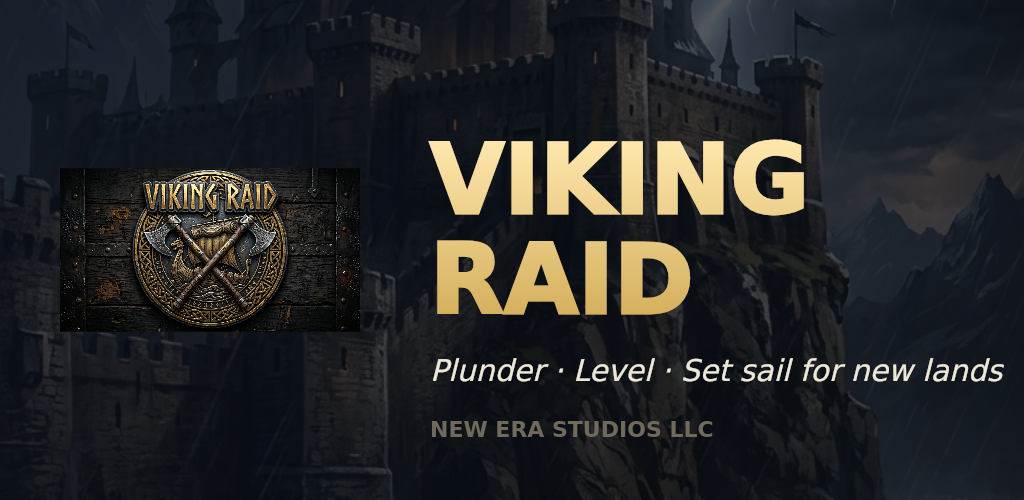
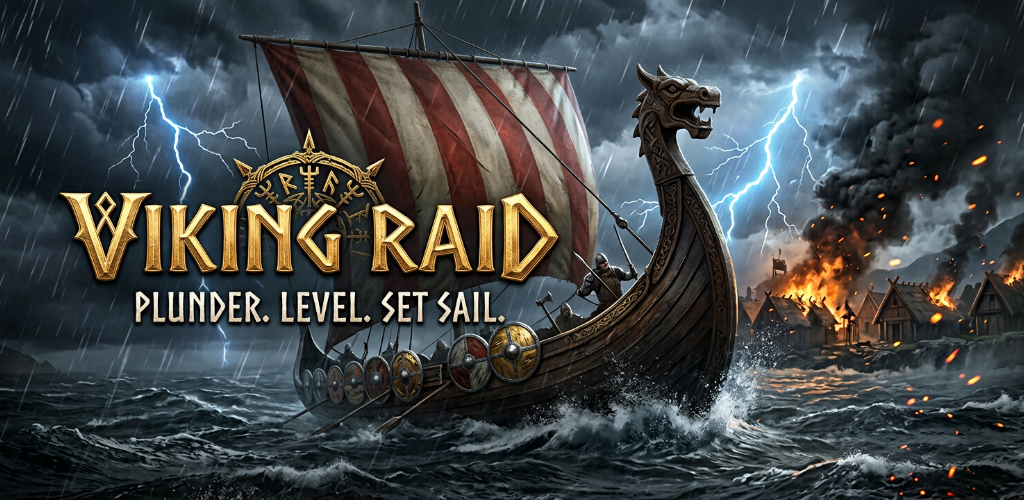
feat(assets): full art pass — unique region scenes, boss lair backdrop, complete store/packaging assets
- New scene art: frozen shore, fjords, marches, cliffs (every region now unique) + dedicated boss-lair backdrop shown during boss fights
- Store assets: 1024x500 feature graphic key art, adaptive icon foreground/background layers (safe-zone checked), 2732x2732 splash + dark splash, icon-512/192 for PWA manifest
- scripts/process-assets.js normalizes raw art to exact store dimensions
- render.js: art keyed by scene name, boss lair override; sw.js cache v2 with new scenes; build-web.js excludes packaging-only art from shipped bundle
- Screenshots + contact sheet regenerated with new art; docs updated

diff --git a/scripts/screenshot.js b/scripts/screenshot.js
@@ -24,13 +24,13 @@ async function loadIm(name, file) { IMG[name] = await loadImage(path.resolve(__d
 function fmt(n) { n = Math.floor(n); if (n < 1000) return "" + n; const u = ["K","M","B","T","aa","ab"]; let i=-1; while(n>=1000&&i<u.length-1){n/=1000;i++;} return n.toFixed(n<10?1:0)+u[i]; }
 function hpColor(f) { return f > 0.5 ? "#5fd17a" : f > 0.25 ? "#e0c14a" : "#e0533d"; }
 function roundRect(c, x, y, w, h, r) { r = Math.min(r, w/2, h/2); c.beginPath(); c.moveTo(x+r,y); c.arcTo(x+w,y,x+w,y+h,r); c.arcTo(x+w,y+h,x,y+h,r); c.arcTo(x,y+h,x,y,r); c.arcTo(x,y,x+w,y,r); c.closePath(); }
-function sceneImg(region) { const a = DATA.regionArt(region).art; return a === "scene_forest" ? IMG.forest : a === "scene_fortress" ? IMG.fortress : IMG.village; }
+function sceneImg(region, isBoss) { if (isBoss && IMG.scene_bosslair) return IMG.scene_bosslair; const a = DATA.regionArt(region).art; return IMG[a] || IMG.scene_village; }
 
-function drawBackground(c, region) {
+function drawBackground(c, region, isBoss) {
   const tint = DATA.regionArt(region).tint || "#10131f";
   const g = c.createLinearGradient(0, 0, 0, H); g.addColorStop(0, tint); g.addColorStop(1, "#05070c");
   c.fillStyle = g; c.fillRect(0, 0, W, H);
-  const im = sceneImg(region);
+  const im = sceneImg(region, isBoss);
   if (im) { const sc = Math.max(W / im.width, H / im.height), dw = im.width * sc, dh = im.height * sc; c.globalAlpha = 0.94; c.drawImage(im, (W - dw) / 2, (H - dh) / 2, dw, dh); c.globalAlpha = 1; }
   const top = c.createLinearGradient(0, 0, 0, H * 0.30); top.addColorStop(0, "rgba(5,7,12,0.78)"); top.addColorStop(1, "rgba(5,7,12,0)"); c.fillStyle = top; c.fillRect(0, 0, W, H * 0.30);
   const bot = c.createLinearGradient(0, H * 0.52, 0, H); bot.addColorStop(0, "rgba(5,7,12,0)"); bot.addColorStop(1, "rgba(5,7,12,0.93)"); c.fillStyle = bot; c.fillRect(0, H * 0.52, W, H * 0.48);
@@ -185,9 +185,14 @@ async function shot(name, drawFn) {
 }
 
 async function main() {
-  await loadIm("village", "scene_village.png");
-  await loadIm("forest", "scene_forest.png");
-  await loadIm("fortress", "scene_fortress.png");
+  await loadIm("scene_village", "scene_village.png");
+  await loadIm("scene_forest", "scene_forest.png");
+  await loadIm("scene_fortress", "scene_fortress.png");
+  await loadIm("scene_frozen_shore", "scene_frozen_shore.png");
+  await loadIm("scene_fjords", "scene_fjords.png");
+  await loadIm("scene_marches", "scene_marches.png");
+  await loadIm("scene_cliffs", "scene_cliffs.png");
+  await loadIm("scene_bosslair", "scene_bosslair.png");
   await loadIm("hero", "hero_chieftain.png");
   await loadIm("logo", "logo.png");
   const time = 1.2;
@@ -220,7 +225,7 @@ async function main() {
     const st = makeState({ region: 0, villageIndex: CONFIG.BOSS_INDEX, rage: 0.6 });
     Sys.init(st); const v = G.village; v.hp = v.maxHp * 0.30; v.hitFlash = 0.7; v.staggered = true; v.fury = true;
     G.runtime.bossBanner = 1.35;
-    buildWeather(st.region); drawBackground(c, st.region); drawWeather(c, st.region);
+    buildWeather(st.region); drawBackground(c, st.region, true); drawWeather(c, st.region);
     drawTarget(c, v, time); drawBossBanner(c, v, G.runtime.bossBanner); drawShip(c, st.shipHp*0.6, G.derived.shipMaxHp);
     drawFloaters(c, [ {x:W*0.5,y:H*0.34,t:"18,420!",c:"#ffd54a",a:1,big:true},{x:W*0.4,y:H*0.30,t:"7,310",c:"#fff",a:0.85} ]);
     drawChrome(c, st, v);

diff --git a/scripts/process-assets.js b/scripts/process-assets.js
@@ -1,0 +1,67 @@
+/* scripts/process-assets.js
+   Normalizes raw art into store/packaging-ready assets:
+   - assets/icon-1024.png            (1024x1024 app icon, already square — validated)
+   - assets/icon-512.png / icon-192.png  (PWA manifest icons)
+   - assets/icon-foreground.png      (1024x1024, emblem scaled into adaptive-icon safe zone)
+   - assets/icon-background.png      (1024x1024 edge-to-edge layer)
+   - assets/splash-2732.png          (2732x2732 for @capacitor/assets)
+   - screenshots/feature_graphic.png (1024x500 Play Store feature graphic, cover-cropped)
+   Run: node scripts/process-assets.js   (needs: npm i @napi-rs/canvas) */
+const fs = require("fs");
+const path = require("path");
+const { createCanvas, loadImage } = require("@napi-rs/canvas");
+
+const A = (f) => path.resolve(__dirname, "..", "assets", f);
+const S = (f) => path.resolve(__dirname, "..", "screenshots", f);
+
+function save(canvas, file) {
+  fs.writeFileSync(file, canvas.toBuffer("image/png"));
+  console.log("wrote", path.relative(path.resolve(__dirname, ".."), file), canvas.width + "x" + canvas.height);
+}
+
+// cover-crop an image onto a w×h canvas
+function cover(im, w, h) {
+  const cv = createCanvas(w, h), c = cv.getContext("2d");
+  const sc = Math.max(w / im.width, h / im.height);
+  const dw = im.width * sc, dh = im.height * sc;
+  c.drawImage(im, (w - dw) / 2, (h - dh) / 2, dw, dh);
+  return cv;
+}
+
+// contain image at `frac` of canvas onto a solid background
+function contain(im, w, h, frac, bg) {
+  const cv = createCanvas(w, h), c = cv.getContext("2d");
+  c.fillStyle = bg; c.fillRect(0, 0, w, h);
+  const sc = Math.min(w / im.width, h / im.height) * frac;
+  const dw = im.width * sc, dh = im.height * sc;
+  c.drawImage(im, (w - dw) / 2, (h - dh) / 2, dw, dh);
+  return cv;
+}
+
+async function main() {
+  // 1) Feature graphic: 1024x500 exact
+  const fg = await loadImage(A("feature_graphic_art.png"));
+  save(cover(fg, 1024, 500), S("feature_graphic.png"));
+
+  // 2) Adaptive icon foreground: emblem must sit inside the 66% safe zone.
+  //    Raw art's emblem spans ~82% of the frame → rescale whole layer to 72%
+  //    so the emblem lands at ~59% of the canvas (inside safe zone).
+  const fore = await loadImage(A("icon-foreground.png"));
+  save(contain(fore, 1024, 1024, 0.72, "#0a0e18"), A("icon-foreground.png"));
+
+  // 3) Adaptive icon background: exact 1024 square
+  const back = await loadImage(A("icon-background.png"));
+  save(cover(back, 1024, 1024), A("icon-background.png"));
+
+  // 4) Splash: 2732x2732 (Capacitor universal splash source)
+  const splash = await loadImage(A("splash-2732.png"));
+  save(cover(splash, 2732, 2732), A("splash-2732.png"));
+
+  // 5) PWA manifest icons from the master 1024 icon
+  const icon = await loadImage(A("icon-1024.png"));
+  save(cover(icon, 512, 512), A("icon-512.png"));
+  save(cover(icon, 192, 192), A("icon-192.png"));
+
+  console.log("\nAll assets normalized.");
+}
+main().catch((e) => { console.error(e); process.exit(1); });

diff --git a/js/render.js b/js/render.js
@@ -36,9 +36,14 @@
   Render.init = function (canvas) {
     cv = canvas;
     ctx = canvas.getContext("2d");
-    loadImage("village", "assets/scene_village.png");
-    loadImage("forest", "assets/scene_forest.png");
-    loadImage("fortress", "assets/scene_fortress.png");
+    loadImage("scene_village", "assets/scene_village.png");
+    loadImage("scene_forest", "assets/scene_forest.png");
+    loadImage("scene_fortress", "assets/scene_fortress.png");
+    loadImage("scene_frozen_shore", "assets/scene_frozen_shore.png");
+    loadImage("scene_fjords", "assets/scene_fjords.png");
+    loadImage("scene_marches", "assets/scene_marches.png");
+    loadImage("scene_cliffs", "assets/scene_cliffs.png");
+    loadImage("scene_bosslair", "assets/scene_bosslair.png");
     loadImage("hero", "assets/hero_chieftain.png");
     loadImage("logo", "assets/logo.png");
     for (let i = 0; i < 26; i++) {
@@ -211,13 +216,12 @@
 
   function regionArtName(region) {
     const art = DATA.regionArt(region).art;
-    return art; // scene_village/forest/fortress
+    return images[art] ? art : "scene_village";
   }
-  function artImage(region) {
-    const a = regionArtName(region);
-    if (a === "scene_forest") return images.forest;
-    if (a === "scene_fortress") return images.fortress;
-    return images.village;
+  function artKey() {
+    const v = G.village;
+    if (v && v.isBoss && images["scene_bosslair"]) return "scene_bosslair";
+    return regionArtName(v ? v.region : 0);
   }
 
   function drawBackground() {
@@ -230,8 +234,9 @@
     ctx.fillStyle = g;
     ctx.fillRect(0, 0, W, H);
 
-    const im = artImage(v.region);
-    if (im && imgReady[im === images.village ? "village" : im === images.forest ? "forest" : "fortress"]) {
+    const key = artKey();
+    const im = images[key];
+    if (im && imgReady[key]) {
       // cover-fit with subtle bob
       const bob = Math.sin(time * 0.6) * 4;
       const iw = im.naturalWidth, ih = im.naturalHeight;

diff --git a/js/data.js b/js/data.js
@@ -162,12 +162,12 @@
 
     // --- Regions (first several hand-authored, then procedural) ------
     REGIONS: [
-      { name: "The Frozen Shore",   art: "scene_village",  tint: "#1b2a3a", weather: "snow" },
-      { name: "Whispering Fjords",  art: "scene_village",  tint: "#243440", weather: "mist" },
-      { name: "Ironwood Forest",    art: "scene_forest",   tint: "#16241a", weather: "embers" },
-      { name: "Blackpine Marches",  art: "scene_forest",   tint: "#1a2230", weather: "rain" },
-      { name: "Stormhold Keep",     art: "scene_fortress", tint: "#10131f", weather: "storm" },
-      { name: "Thunder Cliffs",     art: "scene_fortress", tint: "#0e1322", weather: "storm" },
+      { name: "The Frozen Shore",   art: "scene_frozen_shore", tint: "#1b2a3a", weather: "snow" },
+      { name: "Whispering Fjords",  art: "scene_fjords",       tint: "#243440", weather: "mist" },
+      { name: "Ironwood Forest",    art: "scene_forest",       tint: "#16241a", weather: "embers" },
+      { name: "Blackpine Marches",  art: "scene_marches",      tint: "#1a2230", weather: "rain" },
+      { name: "Stormhold Keep",     art: "scene_fortress",     tint: "#10131f", weather: "storm" },
+      { name: "Thunder Cliffs",     art: "scene_cliffs",       tint: "#0e1322", weather: "storm" },
     ],
 
     // --- Weather profiles (rendered as canvas particles) -------------
@@ -344,7 +344,7 @@
       if (index < DATA.REGIONS.length) return DATA.REGIONS[index];
       // cycle art, darkening tints for deeper regions
       const base = DATA.REGIONS[index % DATA.REGIONS.length];
-      return { name: DATA.regionName(index), art: base.art, tint: base.tint };
+      return { name: DATA.regionName(index), art: base.art, tint: base.tint, weather: base.weather };
     },
 
     // Compose a flavourful item name from its slot + rarity.

diff --git a/scripts/build-web.js b/scripts/build-web.js
@@ -16,11 +16,26 @@ const INCLUDE = [
   "js",
 ];
 
+// Packaging-only art (icon/splash sources for @capacitor/assets, store art).
+// Not referenced at runtime — keep them out of the shipped web bundle.
+const EXCLUDE = new Set([
+  "assets/splash.png",
+  "assets/splash-dark.png",
+  "assets/splash-2732.png",
+  "assets/icon-only.png",
+  "assets/icon-foreground.png",
+  "assets/icon-background.png",
+  "assets/icon-1024.png",
+  "assets/feature_graphic_art.png",
+]);
+
 function rmrf(p) {
   if (!fs.existsSync(p)) return;
   fs.rmSync(p, { recursive: true, force: true });
 }
 function copy(src, dest) {
+  const rel = path.relative(ROOT, src).split(path.sep).join("/");
+  if (EXCLUDE.has(rel)) return;
   const stat = fs.statSync(src);
   if (stat.isDirectory()) {
     fs.mkdirSync(dest, { recursive: true });

diff --git a/index.html b/index.html
@@ -14,8 +14,8 @@
   <meta name="description" content="Viking Raid — an epic incremental raiding RPG. Plunder villages, level your warband, and sail for new lands. By New Era Studios LLC." />
   <title>Viking Raid</title>
   <link rel="manifest" href="manifest.webmanifest" />
-  <link rel="icon" type="image/png" href="assets/logo.png" />
-  <link rel="apple-touch-icon" href="assets/logo.png" />
+  <link rel="icon" type="image/png" href="assets/icon-192.png" />
+  <link rel="apple-touch-icon" href="assets/icon-192.png" />
   <link rel="preconnect" href="https://fonts.googleapis.com" />
   <link rel="preconnect" href="https://fonts.gstatic.com" crossorigin />
   <link href="https://fonts.googleapis.com/css2?family=Cinzel:wght@500;700;900&family=Cinzel+Decorative:wght@700;900&display=swap" rel="stylesheet" />

diff --git a/sw.js b/sw.js
@@ -2,7 +2,7 @@
    VIKING RAID — service worker (offline app shell)
    New Era Studios LLC
    ============================================================ */
-const CACHE = "viking-raid-v1";
+const CACHE = "viking-raid-v2";
 const SHELL = [
   "./",
   "./index.html",
@@ -21,6 +21,13 @@ const SHELL = [
   "./assets/scene_village.png",
   "./assets/scene_forest.png",
   "./assets/scene_fortress.png",
+  "./assets/scene_frozen_shore.png",
+  "./assets/scene_fjords.png",
+  "./assets/scene_marches.png",
+  "./assets/scene_cliffs.png",
+  "./assets/scene_bosslair.png",
+  "./assets/icon-192.png",
+  "./assets/icon-512.png",
 ];
 
 self.addEventListener("install", (e) => {

diff --git a/LAUNCH_CHECKLIST.md b/LAUNCH_CHECKLIST.md
@@ -17,6 +17,10 @@ Legend: ✅ already done in this repo · 🔲 your action · 💰 may cost money
 | `capacitor.config.json` (appId `com.newerastudios.vikingraid`) | ✅ |
 | `scripts/build-web.js` (builds `./www` for Capacitor) | ✅ |
 | App icon source `assets/icon-1024.png` (1024×1024 square) | ✅ |
+| Adaptive icon layers `assets/icon-foreground.png` / `icon-background.png` (1024², safe-zone checked) | ✅ |
+| Splash sources `assets/splash.png` / `splash-dark.png` (2732×2732) | ✅ |
+| Feature graphic `screenshots/feature_graphic.png` (exact 1024×500 key art) | ✅ |
+| Unique scene art for all 6 regions + boss lair backdrop | ✅ |
 | Tests (`npm test` → 73 checks, 0 errors) | ✅ |
 
 ---
@@ -50,7 +54,7 @@ Run these in the project root:
 ```bash
 npm install                      # Capacitor + tooling
 npm run build:web                # copies the game into ./www
-npx capacitor-assets generate    # makes Android icons + splash from assets/icon-1024.png (run: npm i -D @capacitor/assets first)
+npx capacitor-assets generate --android   # icons + splash — sources already in assets/: icon-only, icon-foreground, icon-background, splash, splash-dark (run: npm i -D @capacitor/assets first)
 npx cap add android              # creates ./android  (first time only)
 npx cap sync android             # copies ./www + plugins into the native project
 npx cap open android             # opens the project in Android Studio
@@ -68,9 +72,9 @@ npx cap open android             # opens the project in Android Studio
 
 | # | Asset | Spec | Where to put it | How to make it |
 |---|---|---|---|---|
-| 4.1 | 🔲 App icon | 512×512 PNG, 32-bit, no alpha | Play Console → app → Main store listing | Use `assets/icon-1024.png` resized, or regenerate. |
-| 4.2 | 🔲 **Screenshots** (min 2, rec 3–8) | Phone: 16:9 or 9:16, min 320px, max 3840px JPEG/PNG | Play Console → Main store listing | **Starter set included:** `screenshots/01_splash.png … 05_fortress.png` (true 1080×2340 renders) + `screenshots/feature_graphic.png` (1024×500). Regenerate any time with `npm i @napi-rs/canvas && node scripts/screenshot.js`. For live captures, run on a real device and use `adb exec-out screencap -p > shot.png`. |
-| 4.3 | 🔲 Feature graphic (optional but recommended) | 1024×500 PNG/JPEG | Play Console → Main store listing | A wide banner (longship + "Viking Raid" + "New Era Studios"). |
+| 4.1 | 🔲 App icon | 512×512 PNG, 32-bit, no alpha | Play Console → app → Main store listing | **Ready:** upload `assets/icon-512.png` (flatten alpha if Console complains). |
+| 4.2 | 🔲 **Screenshots** (min 2, rec 3–8) | Phone: 16:9 or 9:16, min 320px, max 3840px JPEG/PNG | Play Console → Main store listing | **Starter set included:** `screenshots/01_splash.png … 06_modifier.png` (true 1080×2340 renders, unique art per region + boss lair). Regenerate any time with `npm i @napi-rs/canvas && node scripts/screenshot.js`. For live captures, run on a real device and use `adb exec-out screencap -p > shot.png`. |
+| 4.3 | 🔲 Feature graphic (optional but recommended) | 1024×500 PNG/JPEG | Play Console → Main store listing | **Ready:** upload `screenshots/feature_graphic.png` (longship key art + "Viking Raid" + tagline, exact 1024×500). |
 | 4.4 | 🔲 Short description | ≤ 80 chars | Main store listing | e.g. *"Plunder, level & set sail. An epic Viking raiding RPG."* |
 | 4.5 | 🔲 Full description | ≤ 4000 chars | Main store listing | Expand on features: loops, loot, runes, daily quests, prestige, offline play. |
 | 4.6 | 🔲 App category / tags | Game ▸ Role Playing (or Strategy) | Main store listing | Tags: idle, rpg, viking, clicker, incremental. |

diff --git a/README.md b/README.md
@@ -112,8 +112,9 @@ npm install
 # 2. Build the offline web bundle into ./www
 npm run build:web
 
-# 3. Generate native icons & splash from assets/icon-1024.png
-npm install -D @capacitor/assets && npx capacitor-assets generate
+# 3. Generate native icons & splash screens (zero-config — the assets/ folder
+#    already contains icon-only/icon-foreground/icon-background/splash/splash-dark)
+npm install -D @capacitor/assets && npx capacitor-assets generate --android
 
 # 4. Add the Android platform (creates ./android)
 npx cap add android
@@ -145,7 +146,9 @@ Viking-Raid/
 ├─ manifest.webmanifest     # PWA manifest (installable, offline)
 ├─ sw.js                    # Service worker (offline app shell)
 ├─ capacitor.config.json    # Android packaging config (Play Store)
-├─ assets/                  # AI-generated art (logo, icon-1024, hero, scenes)
+├─ assets/                  # AI-generated art — runtime scenes (6 regions + boss lair,
+│                           #   hero, logo, PWA icons) + packaging sources
+│                           #   (icon-only/foreground/background, splash, splash-dark)
 ├─ js/
 │  ├─ config.js             # ⚙ All balance constants & formula helpers (TUNE HERE)
 │  ├─ data.js               # Static defs: stats, upgrades, saga, regions, names
